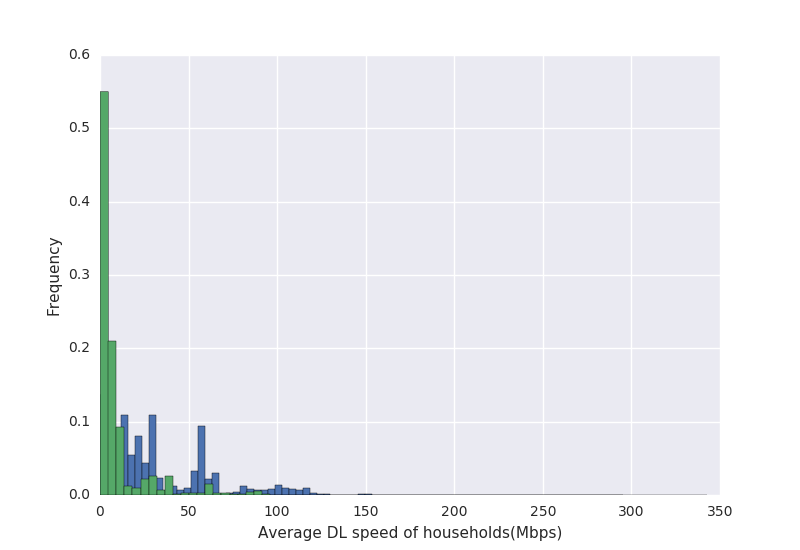
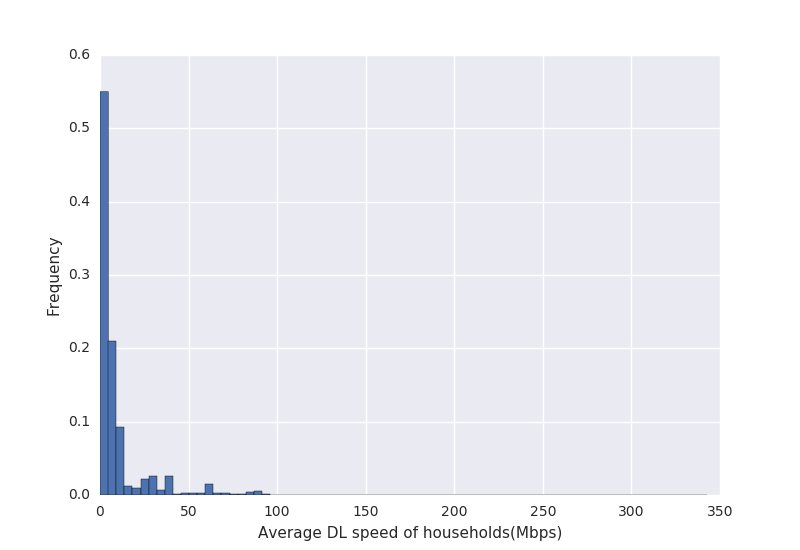
no stacking

Changed region(s): [[0.125, 0.1545, 0.4062, 0.9273]]

diff --git a/src/percentspeed.py b/src/percentspeed.py
@@ -42,6 +42,8 @@ for i in uniqueup:
         splitin=full[full.unit_id == i]["Speed_up"].tolist()[0]
         ups.append(splitin*.0000080)
 
+
+plt.clf()#clear old plot
 #upplot=sns.barplot(x="speed range", y="percent", data=ups)
 plt.xlabel('Average DL speed of households(Mbps)')
 plt.ylabel('Frequency')
